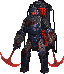
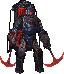
speed random & asset apply

diff --git a/Assets/Scripts/SpawnerAuthoring.cs b/Assets/Scripts/SpawnerAuthoring.cs
@@ -1,8 +1,8 @@
 using System.Collections.Generic;
 using System.Threading;
 using Unity.Entities;
+using Unity.Mathematics;
 using UnityEngine;
-using UnityEngine.Pool;
 
 public struct Spawner : IComponentData
 {
@@ -10,8 +10,9 @@ public struct Spawner : IComponentData
     public float timer;
     public int Spawn_count;
     public Entity sweeper;
-    public uint Random_seed;
     public float Sweeper_speed;
+    public quaternion Sweeper_stand;
+    public Unity.Mathematics.Random Rand;
 
     //public Pool pool;
 
@@ -42,11 +43,12 @@ public class SpawnerAuthoring : MonoBehaviour
                 sweeper = GetEntity(authoring._Prefab, TransformUsageFlags.Dynamic),
                 Spawn_count = authoring._spawnCount,
                 timer = authoring._timer,
-                Random_seed = authoring._randomSeed,
-                Sweeper_speed = authoring._sweeper_speed
+                Sweeper_speed = authoring._sweeper_speed,
+                Sweeper_stand = quaternion.EulerXYZ(0, math.PI, 0),
+                Rand = new Unity.Mathematics.Random(authoring._randomSeed)
             };
             // spawner is invisible but I choose renderable
-            AddComponent(GetEntity(TransformUsageFlags.Renderable), data);
+            AddComponent(GetEntity(TransformUsageFlags.Dynamic), data);
         } // bake
     } // baker class
 }

diff --git a/Assets/Scripts/SpawnerSystem.cs b/Assets/Scripts/SpawnerSystem.cs
@@ -23,15 +23,13 @@ public partial struct SpawnerUpdateJob: ISystem
                 continue;
             spawner.ValueRW.timer = 0f;
 
-            var rand = new Random(spawner.ValueRO.Random_seed);
-
             for (int i = 0; i < spawner.ValueRO.Spawn_count; i++)
             {
                 var instance = ecb.Instantiate(spawner.ValueRO.sweeper);
-                ecb.SetComponent(instance, LocalTransform.FromPosition(xform.ValueRO.Position));
+                ecb.SetComponent(instance, LocalTransform.FromPositionRotation(xform.ValueRO.Position, spawner.ValueRO.Sweeper_stand));
 
                 // set speed randomly
-                ecb.SetComponent(instance, Sweeper.Random(rand.NextUInt(), spawner.ValueRO.Sweeper_speed));
+                ecb.SetComponent(instance, Sweeper.Random(spawner.ValueRW.Rand.NextUInt(), spawner.ValueRO.Sweeper_speed));
             }
         }
             

diff --git a/Assets/Scripts/SweeperAuthoring.cs b/Assets/Scripts/SweeperAuthoring.cs
@@ -7,7 +7,7 @@ public struct Sweeper : IComponentData
     public float Speed;
     public static Sweeper Random(uint seed, float speed)
         => new Sweeper() {
-            Speed = new Unity.Mathematics.Random(seed).NextFloat(speed, speed + 1)};
+            Speed = new Unity.Mathematics.Random(seed).NextFloat(speed, speed + 2)};
 }
 
 public class SweeperAuthoring : MonoBehaviour

diff --git a/CLAUDE.md b/CLAUDE.md
@@ -107,6 +107,12 @@ public class SpeedAuthoring : MonoBehaviour
 - `BurstCompile` 시스템 내에서 관리형(Managed) 타입 사용 금지
 - 불필요한 `Allocator.Persistent` NativeContainer 생성 금지 — 수명 관리 명확히 할 것
 
+### 코드 수정 규칙
+- ⛔ **사용자의 명시적 요청 없이 코드를 수정하지 말 것**
+- 문제를 발견했을 때는 원인과 수정 방법을 설명하고, 사용자의 승인을 받은 후 수정할 것
+- 분석·설명·제안은 자유롭게 하되, 실제 파일 변경은 사용자가 "수정해줘", "적용해줘" 등 명시적으로 요청한 경우에만 가능
+- 이유: 코드 수정은 의도치 않은 동작을 유발할 수 있으므로, 사용자의 최종 판단 필수
+
 ### 파일 삭제 규칙
 - ⛔ **`rm -rf` 명령을 자동으로 실행하지 말 것**
 - 삭제할 파일이나 폴더가 있으면, 경로와 대상을 사용자에게 명확히 **알리고 승인 받을 것**
